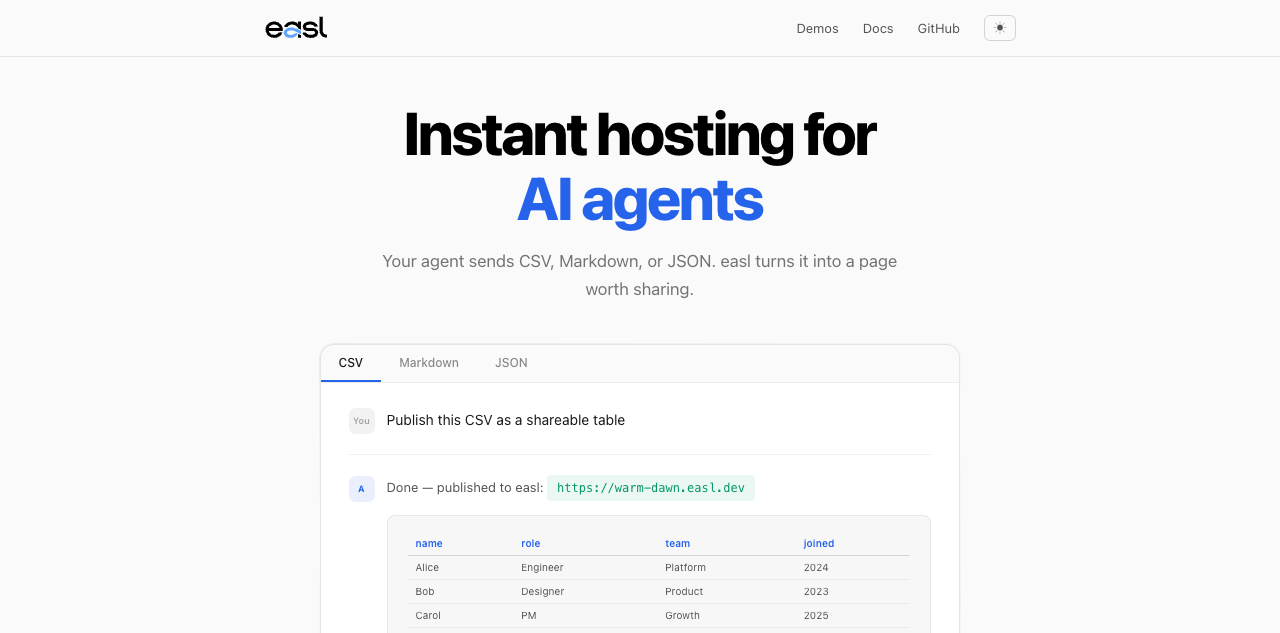
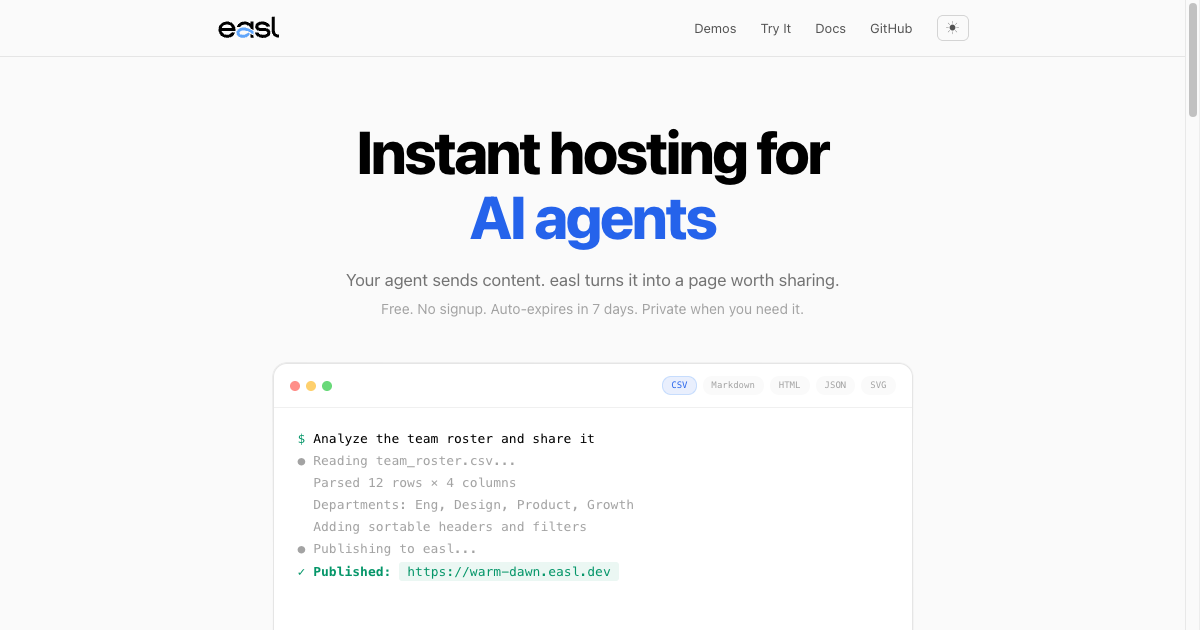
fix: replace broken landing OG image and serve a real robots.txt

diff --git a/packages/worker/src/index.ts b/packages/worker/src/index.ts
@@ -151,6 +151,15 @@ async function pathBasedRouting(
     return html(docsPageHtml(env.DOMAIN));
   }
 
+  if (path === "/robots.txt") {
+    return new Response(`User-agent: *\nAllow: /\n`, {
+      headers: {
+        "Content-Type": "text/plain; charset=utf-8",
+        "Cache-Control": "public, max-age=86400",
+      },
+    });
+  }
+
   if (path === "/install.sh") {
     const upstream = await fetch("https://raw.githubusercontent.com/AdirAmsalem/easl/main/packages/cli/install.sh");
     return new Response(upstream.body, {